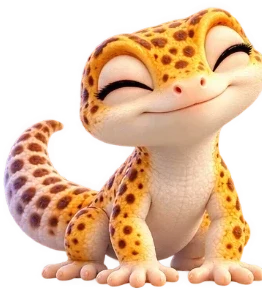
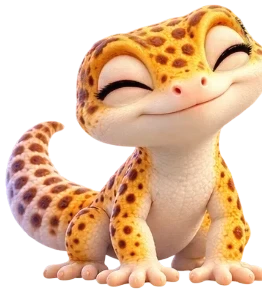
Animazione dei cuccioli senza glitch
- battito di ciglia che cambia solo gli occhi, non tutto il cucciolo
- bordi puliti e pelo bianco senza bagliori tremolanti
- cambio di posa nascosto in uno sbuffo di luce, tre cambi per viaggio senza ripensamenti
- grafica preparata prima del primo fotogramma: niente scatti alla partenza

diff --git a/index.html b/index.html
@@ -1289,7 +1289,7 @@ function Universe(el, o) {
     cur.copy(goal).add(ch.add(tmp).multiplyScalar(ex));
   }
 
-  const clock = new THREE.Clock(); let raf = 0, alive = true, time = 0, onScreen = true;
+  const clock = new THREE.Clock(); let raf = 0, alive = true, time = 0, onScreen = true, settle = 8;
   const ease = t => t < .5 ? 4 * t * t * t : 1 - Math.pow(-2 * t + 2, 3) / 2;
   const easeOut = t => 1 - Math.pow(1 - t, 3);
   const baseFov = cam.fov;
@@ -1298,7 +1298,7 @@ function Universe(el, o) {
     raf = requestAnimationFrame(frame);
     const dt = Math.min(clock.getDelta(), .05);
     if (!onScreen || document.hidden) return;
-    time += dt; T += dt;
+    time += dt; if (settle > 0) settle--; else T += dt;
     starMat.uniforms.uT.value = time;
     ORDER.forEach(k => { const P = planets[k]; if (P.spin) P.group.rotation.y += dt * P.spin; P.tick.forEach(f => f(dt, time)); P.ring.rotation.y += dt * (.05 + (P.lit ? .04 : 0)); });
     nebulas.forEach(n => { n.material.rotation = Math.sin(time * .03 + n.userData.ph) * .2; });
@@ -1412,6 +1412,8 @@ function Universe(el, o) {
   /* niente calcoli quando la scena non è visibile sullo schermo */
   const io = "IntersectionObserver" in window ? new IntersectionObserver(es => { onScreen = es[0].isIntersecting; if (onScreen) clock.getDelta(); }, { threshold: .01 }) : null;
   if (io) io.observe(el);
+  try { rnd.compile(scene, cam); } catch (e) { /* si prepara al primo fotogramma */ }
+  clock.getDelta();
   frame();
   /* misura di prestazioni per i test: millisecondi per fotogramma */
   this.stop = () => {
@@ -1933,7 +1935,7 @@ function renderThanks() {
    disposte in profondità nello spazio 3D (sprite sempre rivolti alla telecamera).
    Queste definizioni sostituiscono quelle dei modelli geometrici: in JavaScript vince l'ultima dichiarazione.
    ===================================================================== */
-const IMG = {"cane_felice":"asset/cane_felice.webp?v=1020124930","cane_felice@":[592,504],"cane_occhichiusi":"asset/cane_occhichiusi.webp?v=1020133824","cane_occhichiusi@":[478,489],"cane_seduto":"asset/cane_seduto.webp?v=1020124929","cane_seduto@":[478,489],"cane_volo":"asset/cane_volo.webp?v=1020124930","cane_volo@":[537,428],"casa_cane":"asset/casa_cane.webp?v=1020131200","casa_cane@":[372,366],"casa_coniglio":"asset/casa_coniglio.webp?v=1020133804","casa_coniglio@":[520,535],"casa_criceto":"asset/casa_criceto.webp?v=1020133806","casa_criceto@":[538,568],"casa_gatto":"asset/casa_gatto.webp?v=1020133802","casa_gatto@":[544,496],"casa_geco":"asset/casa_geco.webp?v=1020133805","casa_geco@":[396,436],"casa_tutti":"asset/casa_tutti.webp?v=1020131305","casa_tutti@":[372,366],"casa_uccellino":"asset/casa_uccellino.webp?v=1020133801","casa_uccellino@":[525,526],"cibo_coniglio":"asset/cibo_coniglio.webp?v=1020133804","cibo_coniglio@":[464,533],"cibo_criceto":"asset/cibo_criceto.webp?v=1020133806","cibo_criceto@":[452,548],"cibo_gatto":"asset/cibo_gatto.webp?v=1020133803","cibo_gatto@":[459,408],"cibo_geco":"asset/cibo_geco.webp?v=1020133805","cibo_geco@":[349,393],"cibo_uccellino":"asset/cibo_uccellino.webp?v=1020133801","cibo_uccellino@":[444,483],"coniglio_felice":"asset/coniglio_felice.webp?v=1020133803","coniglio_felice@":[362,374],"coniglio_occhichiusi":"asset/coniglio_occhichiusi.webp?v=1020133824","coniglio_occhichiusi@":[353,387],"coniglio_seduto":"asset/coniglio_seduto.webp?v=1020133803","coniglio_seduto@":[353,387],"coniglio_volo":"asset/coniglio_volo.webp?v=1020133803","coniglio_volo@":[402,375],"criceto_felice":"asset/criceto_felice.webp?v=1020133806","criceto_felice@":[328,415],"criceto_occhichiusi":"asset/criceto_occhichiusi.webp?v=1020133825","criceto_occhichiusi@":[292,390],"criceto_seduto":"asset/criceto_seduto.webp?v=1020133806","criceto_seduto@":[292,390],"criceto_volo":"asset/criceto_volo.webp?v=1020133806","criceto_volo@":[397,327],"gatto_felice":"asset/gatto_felice.webp?v=1020133802","gatto_felice@":[358,421],"gatto_occhichiusi":"asset/gatto_occhichiusi.webp?v=1020133824","gatto_occhichiusi@":[340,428],"gatto_seduto":"asset/gatto_seduto.webp?v=1020133802","gatto_seduto@":[340,428],"gatto_volo":"asset/gatto_volo.webp?v=1020133802","gatto_volo@":[416,396],"geco_felice":"asset/geco_felice.webp?v=1020133805","geco_felice@":[277,270],"geco_occhichiusi":"asset/geco_occhichiusi.webp?v=1020133825","geco_occhichiusi@":[262,290],"geco_seduto":"asset/geco_seduto.webp?v=1020133804","geco_seduto@":[262,290],"geco_volo":"asset/geco_volo.webp?v=1020133805","geco_volo@":[301,299],"gioco_campanella":"asset/gioco_campanella.webp?v=1020133801","gioco_campanella@":[463,509],"gioco_carota":"asset/gioco_carota.webp?v=1020133804","gioco_carota@":[496,549],"gioco_gomitolo":"asset/gioco_gomitolo.webp?v=1020133803","gioco_gomitolo@":[431,451],"gioco_pallina":"asset/gioco_pallina.webp?v=1020113105","gioco_pallina@":[290,194],"gioco_ruota":"asset/gioco_ruota.webp?v=1020133807","gioco_ruota@":[510,566],"gioco_tronchetto":"asset/gioco_tronchetto.webp?v=1020133805","gioco_tronchetto@":[368,425],"pianeta_bolla":"asset/pianeta_bolla.webp?v=1020134941","pianeta_bolla@":[747,740],"pianeta_crocchetta":"asset/pianeta_crocchetta.webp?v=1020113105","pianeta_crocchetta@":[262,193],"pianeta_cuccia":"asset/pianeta_cuccia.webp?v=1020113105","pianeta_cuccia@":[280,206],"pianeta_stetoscopio":"asset/pianeta_stetoscopio.webp?v=1020134941","pianeta_stetoscopio@":[735,735],"uccellino_felice":"asset/uccellino_felice.webp?v=1020133801","uccellino_felice@":[349,316],"uccellino_occhichiusi":"asset/uccellino_occhichiusi.webp?v=1020133824","uccellino_occhichiusi@":[316,322],"uccellino_seduto":"asset/uccellino_seduto.webp?v=1020133800","uccellino_seduto@":[316,322],"uccellino_volo":"asset/uccellino_volo.webp?v=1020133800","uccellino_volo@":[477,384]};
+const IMG = {"cane_felice":"asset/cane_felice.webp?v=1020124930","cane_felice@":[592,504],"cane_occhichiusi":"asset/cane_occhichiusi.webp?v=1020160533","cane_occhichiusi@":[478,489],"cane_seduto":"asset/cane_seduto.webp?v=1020124929","cane_seduto@":[478,489],"cane_volo":"asset/cane_volo.webp?v=1020124930","cane_volo@":[537,428],"casa_cane":"asset/casa_cane.webp?v=1020131200","casa_cane@":[372,366],"casa_coniglio":"asset/casa_coniglio.webp?v=1020133804","casa_coniglio@":[520,535],"casa_criceto":"asset/casa_criceto.webp?v=1020133806","casa_criceto@":[538,568],"casa_gatto":"asset/casa_gatto.webp?v=1020133802","casa_gatto@":[544,496],"casa_geco":"asset/casa_geco.webp?v=1020133805","casa_geco@":[396,436],"casa_tutti":"asset/casa_tutti.webp?v=1020131305","casa_tutti@":[372,366],"casa_uccellino":"asset/casa_uccellino.webp?v=1020133801","casa_uccellino@":[525,526],"cibo_coniglio":"asset/cibo_coniglio.webp?v=1020133804","cibo_coniglio@":[464,533],"cibo_criceto":"asset/cibo_criceto.webp?v=1020133806","cibo_criceto@":[452,548],"cibo_gatto":"asset/cibo_gatto.webp?v=1020133803","cibo_gatto@":[459,408],"cibo_geco":"asset/cibo_geco.webp?v=1020133805","cibo_geco@":[349,393],"cibo_uccellino":"asset/cibo_uccellino.webp?v=1020133801","cibo_uccellino@":[444,483],"coniglio_felice":"asset/coniglio_felice.webp?v=1020133803","coniglio_felice@":[362,374],"coniglio_occhichiusi":"asset/coniglio_occhichiusi.webp?v=1020160533","coniglio_occhichiusi@":[353,387],"coniglio_seduto":"asset/coniglio_seduto.webp?v=1020133803","coniglio_seduto@":[353,387],"coniglio_volo":"asset/coniglio_volo.webp?v=1020133803","coniglio_volo@":[402,375],"criceto_felice":"asset/criceto_felice.webp?v=1020133806","criceto_felice@":[328,415],"criceto_occhichiusi":"asset/criceto_occhichiusi.webp?v=1020160533","criceto_occhichiusi@":[292,390],"criceto_seduto":"asset/criceto_seduto.webp?v=1020133806","criceto_seduto@":[292,390],"criceto_volo":"asset/criceto_volo.webp?v=1020133806","criceto_volo@":[397,327],"gatto_felice":"asset/gatto_felice.webp?v=1020133802","gatto_felice@":[358,421],"gatto_occhichiusi":"asset/gatto_occhichiusi.webp?v=1020160533","gatto_occhichiusi@":[340,428],"gatto_seduto":"asset/gatto_seduto.webp?v=1020133802","gatto_seduto@":[340,428],"gatto_volo":"asset/gatto_volo.webp?v=1020133802","gatto_volo@":[416,396],"geco_felice":"asset/geco_felice.webp?v=1020133805","geco_felice@":[277,270],"geco_occhichiusi":"asset/geco_occhichiusi.webp?v=1020160534","geco_occhichiusi@":[262,290],"geco_seduto":"asset/geco_seduto.webp?v=1020133804","geco_seduto@":[262,290],"geco_volo":"asset/geco_volo.webp?v=1020133805","geco_volo@":[301,299],"gioco_campanella":"asset/gioco_campanella.webp?v=1020133801","gioco_campanella@":[463,509],"gioco_carota":"asset/gioco_carota.webp?v=1020133804","gioco_carota@":[496,549],"gioco_gomitolo":"asset/gioco_gomitolo.webp?v=1020133803","gioco_gomitolo@":[431,451],"gioco_pallina":"asset/gioco_pallina.webp?v=1020113105","gioco_pallina@":[290,194],"gioco_ruota":"asset/gioco_ruota.webp?v=1020133807","gioco_ruota@":[510,566],"gioco_tronchetto":"asset/gioco_tronchetto.webp?v=1020133805","gioco_tronchetto@":[368,425],"pianeta_bolla":"asset/pianeta_bolla.webp?v=1020134941","pianeta_bolla@":[747,740],"pianeta_crocchetta":"asset/pianeta_crocchetta.webp?v=1020113105","pianeta_crocchetta@":[262,193],"pianeta_cuccia":"asset/pianeta_cuccia.webp?v=1020113105","pianeta_cuccia@":[280,206],"pianeta_stetoscopio":"asset/pianeta_stetoscopio.webp?v=1020134941","pianeta_stetoscopio@":[735,735],"uccellino_felice":"asset/uccellino_felice.webp?v=1020133801","uccellino_felice@":[349,316],"uccellino_occhichiusi":"asset/uccellino_occhichiusi.webp?v=1020160533","uccellino_occhichiusi@":[316,322],"uccellino_seduto":"asset/uccellino_seduto.webp?v=1020133800","uccellino_seduto@":[316,322],"uccellino_volo":"asset/uccellino_volo.webp?v=1020133800","uccellino_volo@":[477,384]};
 const PET_FILE = { dog: "cane", cat: "gatto", bunny: "coniglio", hamster: "criceto", bird: "uccellino", gecko: "geco" };
 const TEX = {};
 function tex(name) {
@@ -2168,8 +2170,10 @@ petLife = function (pet, t, motion, happy) {
     u.still = motion < .02 ? (u.still || 0) + dt : 0;
     const phz = pet.userData.phase || "";
     /* in volo durante il viaggio e nella prima metà della discesa; poi zampe aperte per atterrare */
-    if (phz === "fly" || phz === "overview" || (phz === "descend" && motion > .3)) u.flying = true;
-    else if (phz === "descend" || phz === "bounce" || phz === "crouch" || phz === "hold" || phz === "idle" || u.still > .15) u.flying = false;
+    u.descT = phz === "descend" ? (u.descT || 0) + dt : 0;
+    if (phz === "fly" || phz === "overview") u.flying = true;
+    else if (phz === "descend") { if (u.flying && u.descT > .15 && motion < .3) u.flying = false; }
+    else if (phz === "bounce" || phz === "crouch" || phz === "hold" || phz === "idle" || u.still > .15) u.flying = false;
     const landing = (phz === "descend" && !u.flying) || phz === "bounce";
     setPose(p, u.flying ? "volo" : (landing || happy > .35) ? "felice" : (ph < .14 ? "occhichiusi" : "seduto"));
     if (u.fade < 1) { u.fade = Math.min(1, u.fade + dt / u.fadeDur); u.sprite.material.opacity = u.fade; if (u.fade >= 1) u.alt.visible = false; }
@@ -2264,8 +2268,10 @@ petLife = function (pet, t, motion, happy) {
     u.still = motion < .05 ? u.still + dt : 0;
     const phz = pet.userData.phase || "";
     /* in volo durante il viaggio e nella prima metà della discesa; poi zampe aperte per atterrare */
-    if (phz === "fly" || phz === "overview" || (phz === "descend" && motion > .3)) u.flying = true;
-    else if (phz === "descend" || phz === "bounce" || phz === "crouch" || phz === "hold" || phz === "idle" || u.still > .15) u.flying = false;
+    u.descT = phz === "descend" ? (u.descT || 0) + dt : 0;
+    if (phz === "fly" || phz === "overview") u.flying = true;
+    else if (phz === "descend") { if (u.flying && u.descT > .15 && motion < .3) u.flying = false; }
+    else if (phz === "bounce" || phz === "crouch" || phz === "hold" || phz === "idle" || u.still > .15) u.flying = false;
     const landing = (phz === "descend" && !u.flying) || phz === "bounce";
     setPose(p, u.flying ? "volo" : (landing || happy > .35) ? "felice" : (ph < .14 ? "occhichiusi" : "seduto"));
     /* transizione: rimbalzo verso il basso, dissolvenza al centro, ritorno */
@@ -2315,6 +2321,88 @@ petLife = function (pet, t, motion, happy) {
   petLifeBase(pet, t, motion, happy);
   const list = pet.userData.sprite ? [pet] : pet.children.filter(c => c.userData && c.userData.sprite);
   list.forEach(p => { const u = p.userData, f = texFade(u.file + "_" + u.pose); if (f < 1) { const U = u.sprite.material.uniforms; U.uOpacity.value = Math.min(U.uOpacity.value, f); } });
+};
+/* ---------- Bordi puliti, niente bagliore sul pelo, cambi di posa nascosti, niente scatti ----------
+   - le immagini del cucciolo usano l'alfa premoltiplicata: i pixel semitrasparenti del contorno non si portano dietro
+     il bianco dello sfondo originale (niente aloni chiari né bordi che tremolano)
+   - i bianchi del pelo restano sotto la soglia del bagliore della scena (niente puntini che brillano)
+   - il passaggio fra due pose avviene dentro un breve sbuffo di luce morbida
+   - tutte le pose vengono decodificate e caricate sulla scheda grafica appena la scena parte, non al primo uso */
+const PET_FS2 = `
+uniform sampler2D uMap; uniform float uOpacity, uBright;
+varying vec2 vUv;
+void main() {
+  vec4 t = texture2D(uMap, vUv);
+  float a = t.a * uOpacity;
+  if (a < 0.004) discard;
+  vec3 c = t.rgb / max(t.a, 0.0001);
+  vec3 l = sRGBToLinear(vec4(c, 1.0)).rgb * uBright;
+  l -= max(l - 0.74, 0.0) * 0.6;
+  vec4 o = linearToOutputTexel(vec4(l, 1.0));
+  gl_FragColor = vec4(o.rgb * a, a);
+}`;
+const PTEX = {};
+function petTex(name) {
+  if (!IMG[name]) return null;
+  if (!PTEX[name]) {
+    const t = new THREE.TextureLoader().load(IMG[name], tx => { TEX_AT[name] = TEX_AT[name] || performance.now(); if (tx.image && tx.image.decode) tx.image.decode().catch(() => {}); });
+    t.premultiplyAlpha = true; t.anisotropy = 4; PTEX[name] = t;
+  }
+  return PTEX[name];
+}
+function petReady(name) { const t = petTex(name); return !!(t && t.image && (t.image.complete === undefined || t.image.complete)); }
+petMesh = function (name) {
+  const m = new THREE.ShaderMaterial({
+    uniforms: { uMap: { value: petTex(name) }, uOpacity: { value: 1 }, uBright: { value: 1 }, uW: { value: 1 }, uH: { value: 1 }, uBreath: { value: 0 }, uBend: { value: 0 }, uFlap: { value: 0 }, uSqX: { value: 1 }, uSqY: { value: 1 }, uRot: { value: 0 }, uHead: { value: 0 } },
+    vertexShader: PET_VS, fragmentShader: PET_FS2, transparent: true, depthWrite: false, depthTest: false,
+    blending: THREE.CustomBlending, blendSrc: THREE.OneFactor, blendDst: THREE.OneMinusSrcAlphaFactor
+  });
+  const s = new THREE.Mesh(petGeo(), m); s.frustumCulled = false; s.userData.name = name;
+  return s;
+};
+buildPet = function (k, env) {
+  if (k === "mystery") return mysteryPet();
+  const f = PET_FILE[k], g = new THREE.Group();
+  const a = petMesh(f + "_seduto"), b = petMesh(f + "_seduto");
+  a.renderOrder = 2; b.renderOrder = 1; b.visible = false;
+  g.add(b); g.add(a);
+  /* una copia invisibile per ogni posa: fa caricare subito l'immagine sulla scheda grafica */
+  const warm = POSES.map(p => { const w = petMesh(f + "_" + p); w.material.uniforms.uOpacity.value = 0; w.material.uniforms.uW.value = .01; w.material.uniforms.uH.value = .01; w.renderOrder = 0; g.add(w); return w; });
+  const puff = new THREE.Sprite(new THREE.SpriteMaterial({ map: flashTex(), transparent: true, depthWrite: false, depthTest: false, blending: THREE.AdditiveBlending, opacity: 0 }));
+  puff.renderOrder = 3; puff.position.y = 1.5; puff.scale.setScalar(3.6); g.add(puff);
+  Object.assign(g.userData, { sprite: a, alt: b, warm: warm, warmT: 0, puff: puff, file: f, face: 1, pose: "seduto", altPose: "seduto", tr: 1, trDur: .3, blink: false, flying: false, still: 0 });
+  return g;
+};
+setPose = function (p, pose) {
+  const u = p.userData; if (!u.sprite || u.pose === pose || u.tr < 1) return;
+  const name = u.file + "_" + pose; if (!IMG[name] || !petReady(name)) return;
+  const a = u.sprite, b = u.alt;
+  b.material.uniforms.uMap.value = a.material.uniforms.uMap.value; b.visible = true; u.altPose = u.pose;
+  a.material.uniforms.uMap.value = petTex(name); a.material.uniforms.uOpacity.value = 0;
+  u.blink = pose === "occhichiusi" || u.altPose === "occhichiusi";
+  u.pose = pose; u.tr = 0; u.trDur = u.blink ? .08 : .3;
+};
+texFade = function (name) { const a = TEX_AT[name]; return a ? Math.min(1, (performance.now() - a) / 350) : 0; };
+preloadSpecies = function () {
+  const sp = species(); if (sp[0] === "mystery") return;
+  sp.forEach(k => { const f = PET_FILE[k]; POSES.forEach(p => petTex(f + "_" + p)); });
+  ["pet", "ostacoli", "idea"].forEach(r => tex(planetFile(r)));
+};
+const petLifeFx = petLife;
+petLife = function (pet, t, motion, happy) {
+  petLifeFx(pet, t, motion, happy);
+  const list = pet.userData.sprite ? [pet] : pet.children.filter(c => c.userData && c.userData.sprite);
+  list.forEach(p => {
+    const u = p.userData;
+    /* sbuffo di luce: sale e scende intorno all'istante dello scambio */
+    if (u.puff) {
+      const on = u.tr < 1 && !u.blink, k = on ? Math.sin(Math.PI * u.tr) : 0;
+      u.puff.material.opacity = k * .55; u.puff.visible = k > .01;
+      const H = poseH(u.file, u.pose); u.puff.position.y = H * .45; u.puff.scale.setScalar(H * (1.05 + k * .35));
+    }
+    /* le copie di preriscaldamento servono solo nei primi istanti */
+    if (u.warm && (u.warmT = (u.warmT || 0) + 1) > 90) { u.warm.forEach(w => { w.visible = false; }); u.warm = null; }
+  });
 };
 
 function start() { render(); }
